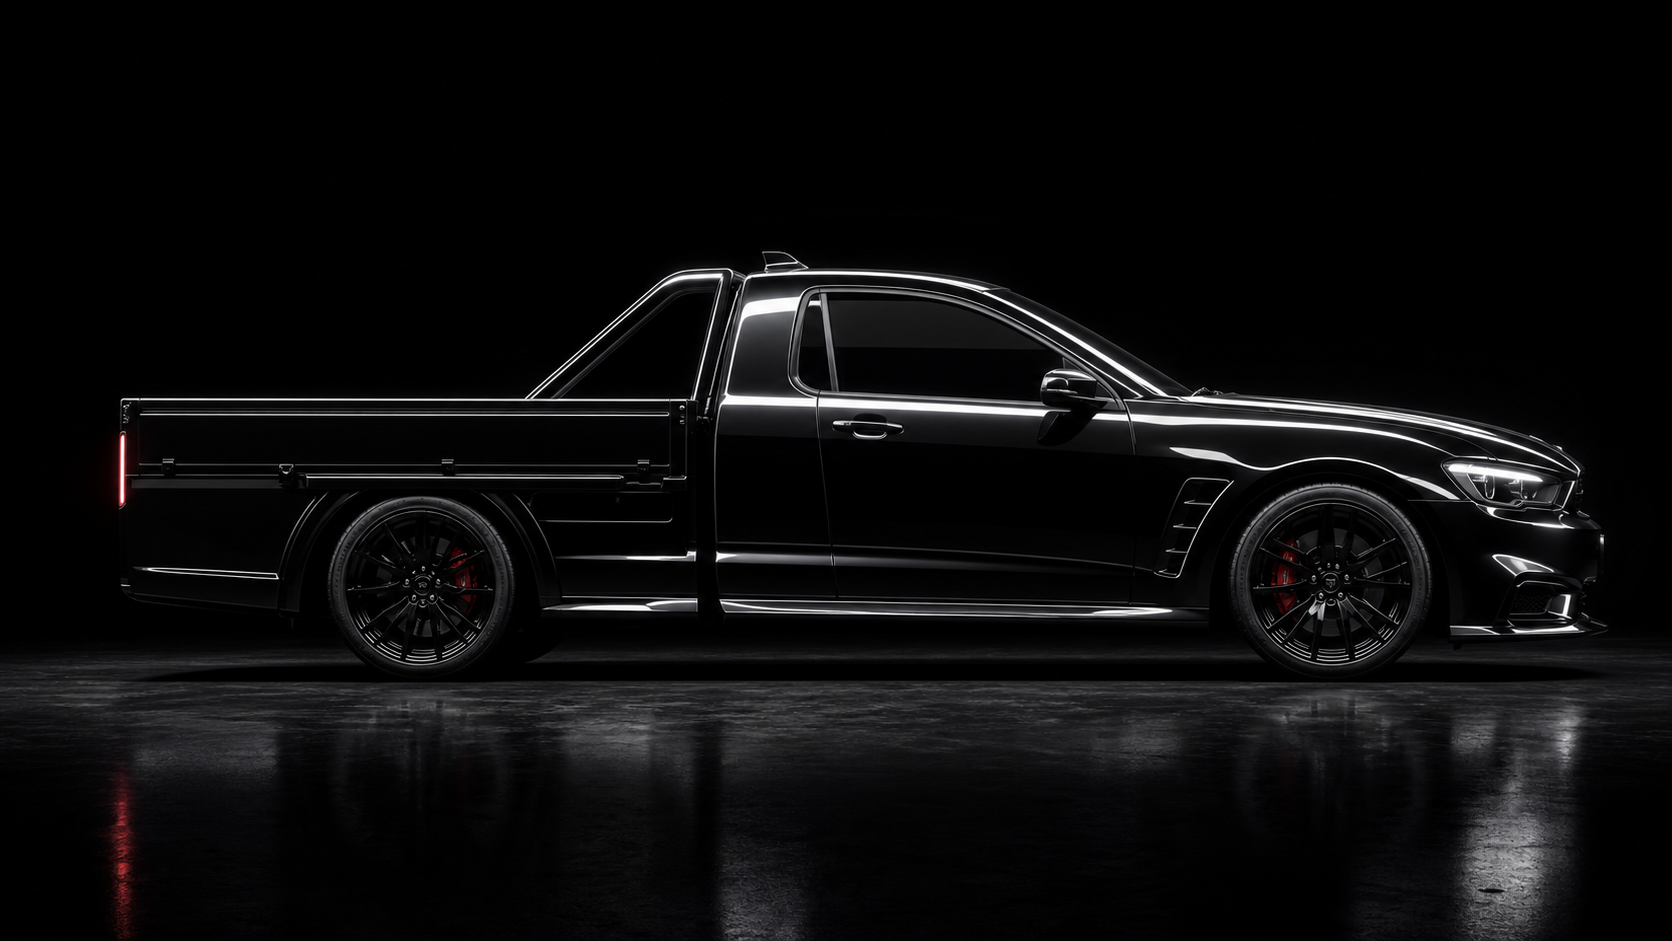
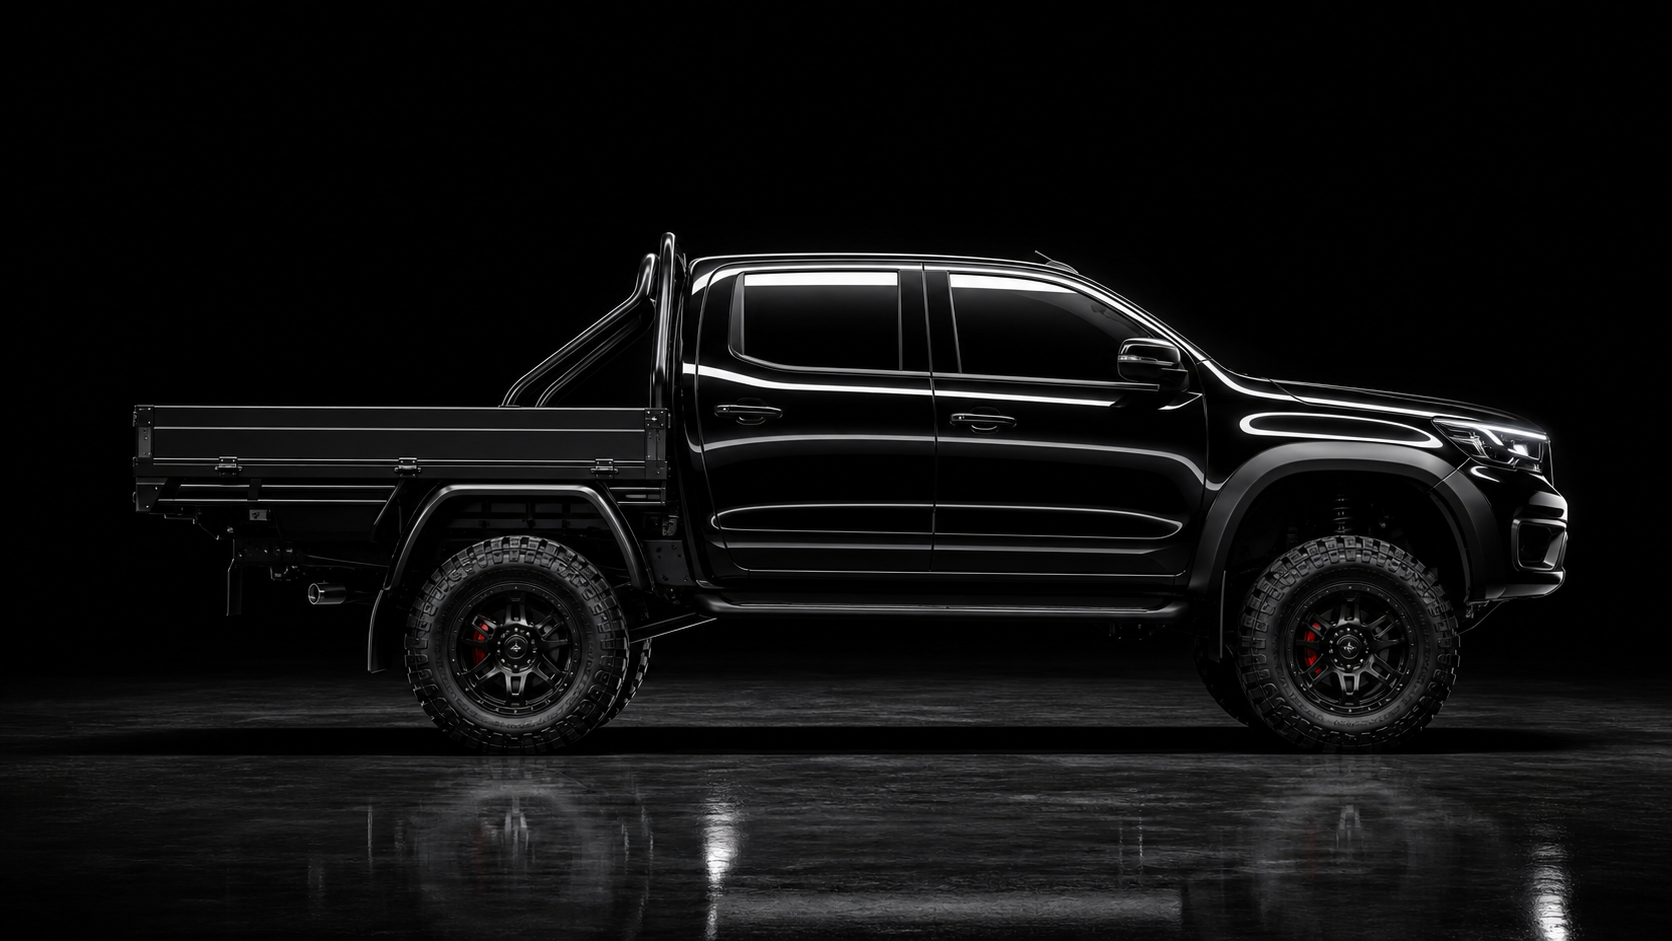
Update hero ute and client-facing copy

Changed region(s): [[0.0, 0.2465, 1.0, 1.0], [0.0622, 0.8321, 0.0933, 1.0]]

diff --git a/forms/index.html b/forms/index.html
@@ -21,7 +21,7 @@
         <a href="/">Home</a>
         <a href="/#protection">Protection</a>
         <a href="/forms/" aria-current="page">Forms</a>
-        <a class="nav-cta" href="mailto:[email redacted]">Contact</a>
+        <a class="nav-cta" href="mailto:[email redacted]">Contact</a>
       </nav>
     </header>
 
@@ -29,7 +29,7 @@
       <section class="forms-hero">
         <p class="eyebrow">Customer documents</p>
         <h1>Download the forms you need.</h1>
-        <p>These links are prepared for the five customer-facing tabs in the Product Application Form / Schedule document.</p>
+        <p>Access the current Shield Protection Australia documents for applications, service records and claim preparation.</p>
       </section>
 
       <section class="forms-grid" aria-label="Available forms">
@@ -42,7 +42,7 @@
         <article class="form-card">
           <span>02</span>
           <h2>Customer Form</h2>
-          <p>Customer form prepared from the Form tab.</p>
+          <p>Customer details and supporting information for warranty administration.</p>
           <a class="button primary" href="/forms/downloads/Form.pdf" download>Download PDF</a>
         </article>
         <article class="form-card">
@@ -65,10 +65,6 @@
         </article>
       </section>
 
-      <section class="forms-note">
-        <h2>PDF folder</h2>
-        <p>The prepared PDFs are stored in <strong>forms/downloads</strong>. Replace any file in that folder with a newer PDF using the same filename and the download button will keep working.</p>
-      </section>
     </main>
 
     <footer class="footer">

diff --git a/index.html b/index.html
@@ -24,7 +24,7 @@
         <a href="/#protection">Protection</a>
         <a href="/#partners">Partners</a>
         <a href="/forms/">Forms</a>
-        <a class="nav-cta" href="mailto:[email redacted]">Contact</a>
+        <a class="nav-cta" href="mailto:[email redacted]">Contact</a>
       </nav>
     </header>
 
@@ -77,7 +77,7 @@
         <div>
           <p class="eyebrow">Forms and schedules</p>
           <h2>Everything important, ready in one place.</h2>
-          <p>The Forms page is prepared for the application schedule, authority form, service coupons, claim checklist and customer form downloads.</p>
+          <p>Access the documents needed to apply, authorise service records, and prepare warranty claim information.</p>
           <a class="text-link" href="/forms/">Open the Forms page</a>
         </div>
         <div class="panel-list" aria-label="Prepared form categories">